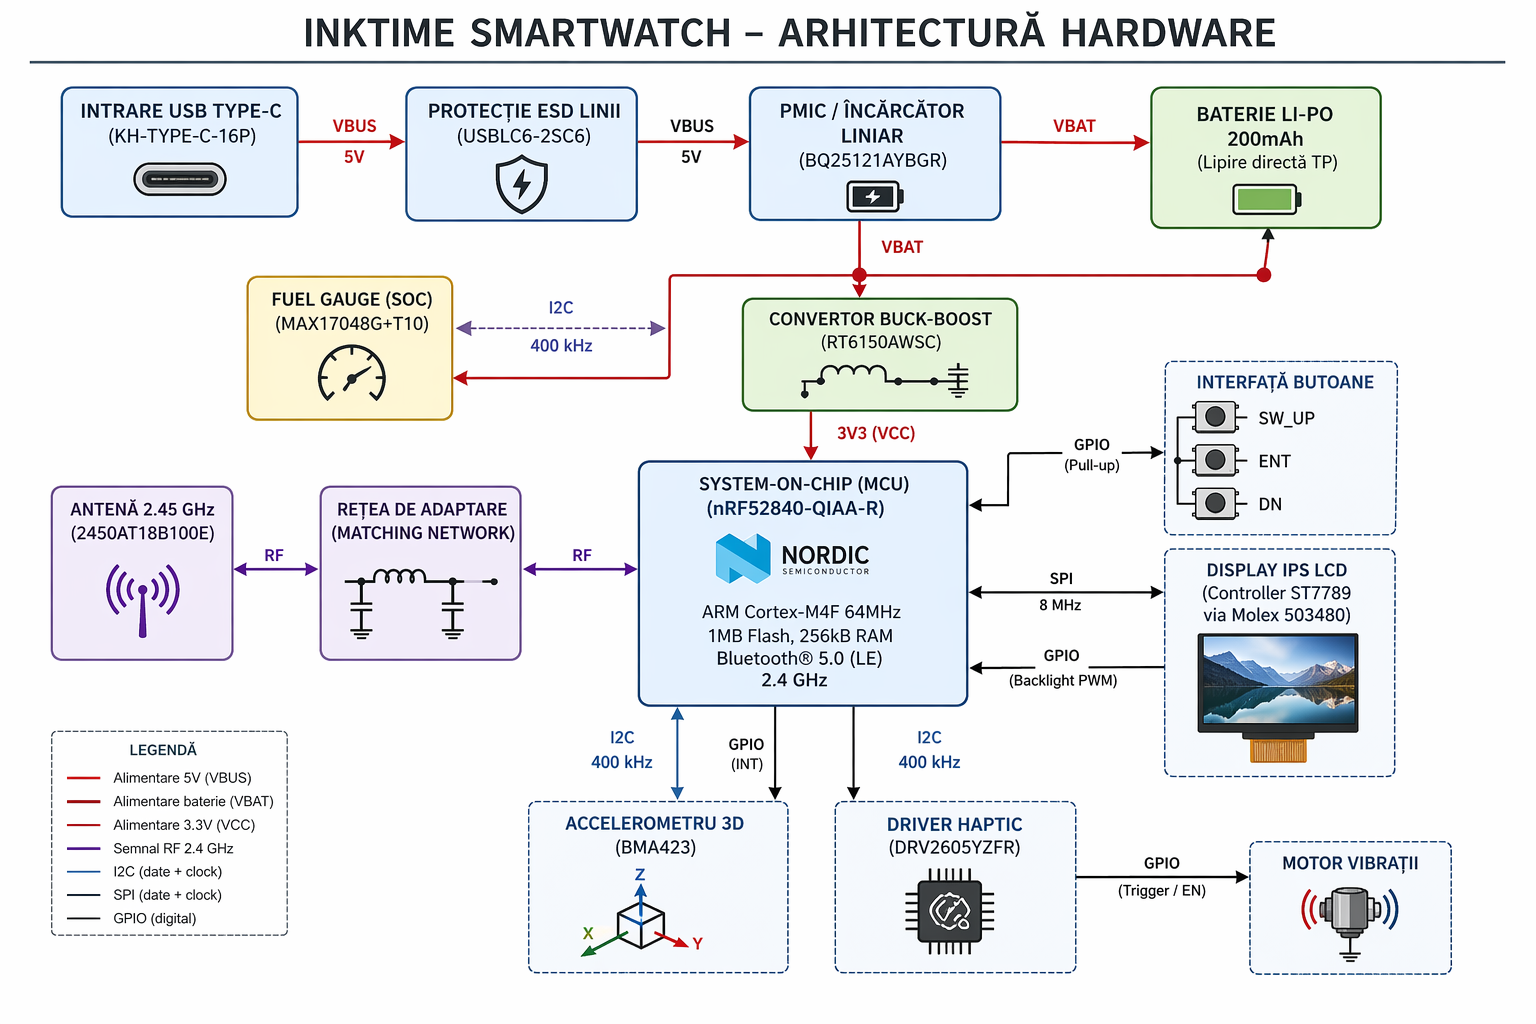
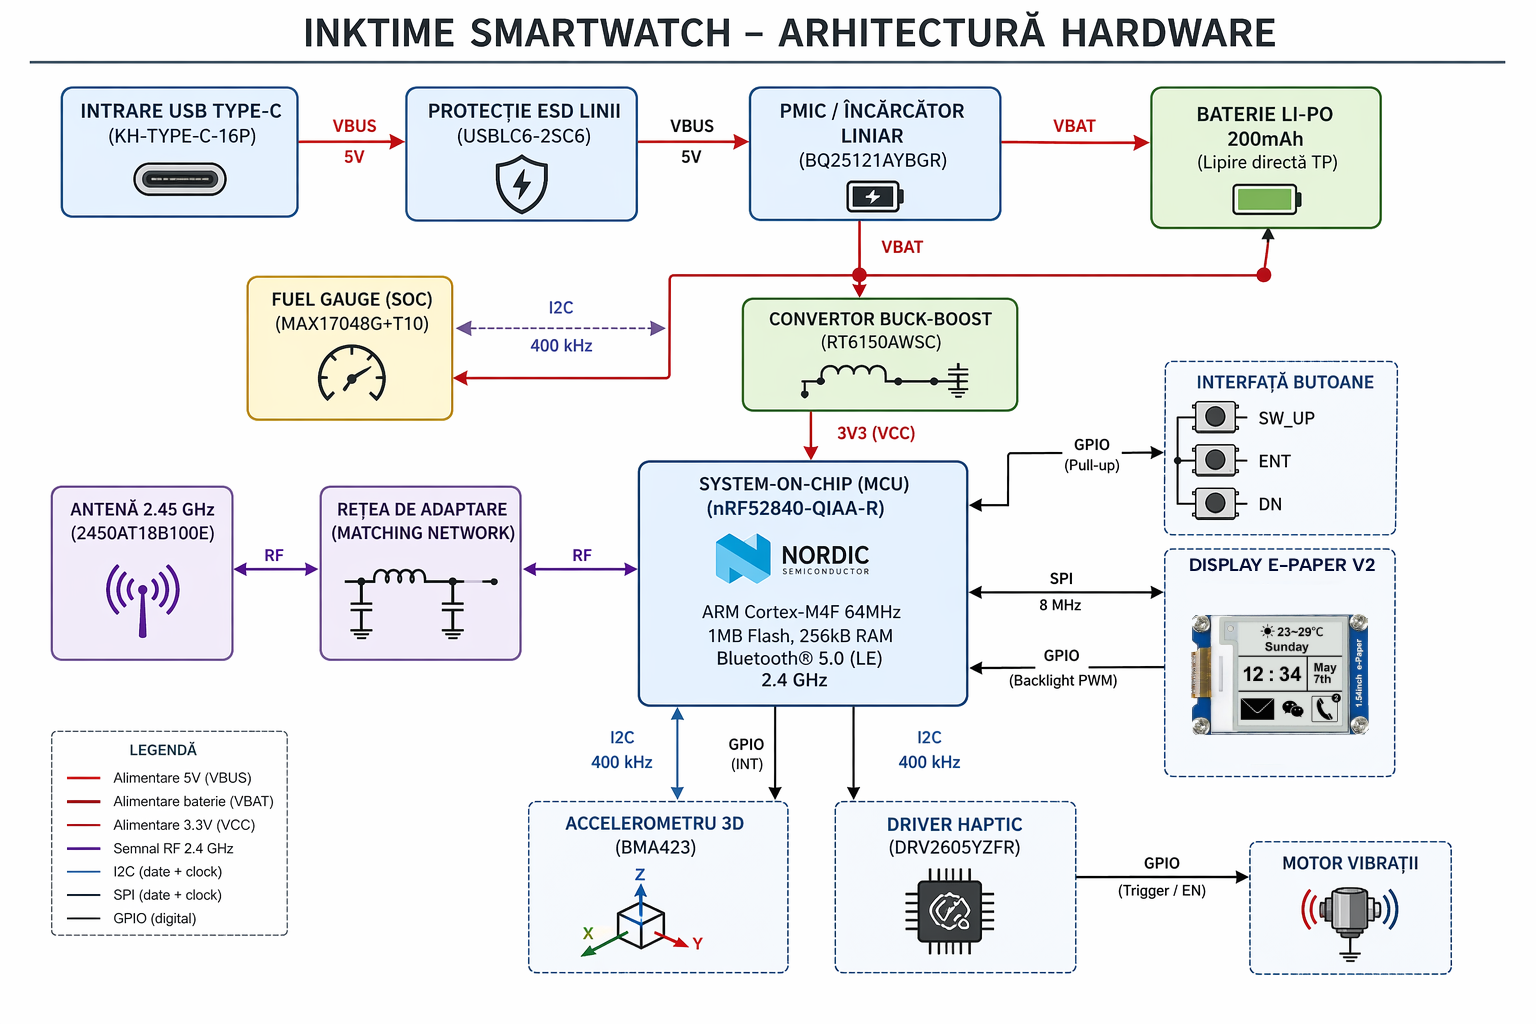
README fix

Changed region(s): [[0.75, 0.5312, 0.9062, 0.75]]

diff --git a/README.md b/README.md
@@ -34,7 +34,6 @@ De asemenea, pachetele fizice (footprints) au fost alese pentru a permite un asa
 | RT6150AWSC        | Convertor DC-DC buck-boost (1.8V–5.5V → 3.3V), curent max 800mA, consum idle 60µA                          | C147971          | [Link JLCPCB](https://www.lcsc.com/product-detail/C147971.html) | [https://www.richtek.com/assets/product_file/RT6150A=RT6150B/DS6150AB-04.pdf](https://www.richtek.com/assets/product_file/RT6150A=RT6150B/DS6150AB-04.pdf)                                                 |
 | KH-TYPE-C-16P     | Conector USB Type-C mamă, 16 pini, SMD, profil redus, 3A                                                   | C709357          | [Link JLCPCB](https://jlcpcb.com/partdetail/KH-TYPE-C-16P/C709357) | N/A                                                                                                                                                                                                        |
 | USBLC6-2SC6       | Protecție ESD (TVS diode array), capacitance 2.5pF pentru linii USB                                        | C7519 / C2827654 | [Link JLCPCB](https://jlcpcb.com/partdetail/STMicroelectronics-USBLC62SC6/C7519) | [https://www.st.com/resource/en/datasheet/usblc6-2.pdf](https://www.st.com/resource/en/datasheet/usblc6-2.pdf)                                                                                             |
-| Molex 503480-2400 | Conector ZIF FPC/FFC 24 pini, pitch 0.5mm, low profile (1.0mm)                                             | C234192          | [Link JLCPCB](https://www.lcsc.com/product-detail/C234192.html) | [https://www.mouser.com/datasheet/2/276/3/5034802400_FFC_FPC_CONNECTORS-2853339.pdf](https://www.mouser.com/datasheet/2/276/3/5034802400_FFC_FPC_CONNECTORS-2853339.pdf)                                   |
 | 2450AT18B100E     | Antenă ceramică RF 2.45 GHz, eficiență ~76%, pachet SMD 1206                                               | C2836414         | [Link JLCPCB](https://jlcpcb.com/partdetail/JohansonTechnology-2450AT18B100/C2836414) | [https://www.johansontechnology.com/docs/1187/2450AT18B100_X8XXogU.pdf](https://www.johansontechnology.com/docs/1187/2450AT18B100_X8XXogU.pdf)                                                             |
 
 ## 4. Descrierea Exhaustivă a Funcționalității Hardware
@@ -63,12 +62,7 @@ Tensiunea de 5V preluată (VBUS) este apoi rutată către circuitul de managemen
 ### Monitorizarea Autonomiei (MAX17048G+T10):
 În mod tradițional, monitorizarea capacității unei baterii implică inserarea unui rezistor tip "shunt" (coulomb counter) pe traseul de retur, ceea ce introduce pierderi resistive constante. InkTime utilizează integratul MAX17048G+T10. Acest fuel-gauge citește exclusiv tensiunea celulei (VCELL) și folosește un model matematic proprietar (ModelGauge™) pentru a estima Starea de Încărcare (State-of-Charge / SOC) cu o toleranță a erorii extrem de redusă, raportând datele către nRF52840 pe magistrala I2C. Prin eliminarea rezistorului de măsurare și o stare internă "Hibernate" în care consumă doar 3 µA, se economisește spațiu vital pe PCB și energie prețioasă.
 
-### 4.3. Subsistemul de Afișare (Display Controller ST7789)
-
-Interfața vizuală constituie cel mai solicitant mediu de comunicare din cadrul dispozitivului. Un ecran tipic LCD IPS de mici dimensiuni este comandat prin intermediul integratului ST7789, un driver larg susținut în mediul sistemelor de operare open source pentru embedded (ex: ecosistemul Zephyr Project). Conectivitatea mecanică între ecran (care va fi asamblat în carcasă superioară) și placa de bază (PCB) de grosime 1.0mm se efectuează cu ajutorul unui cablu flexibil plat (FPC). S-a optat pentru utilizarea conectorului Molex 503480-2400. Acest conector ZIF cu 24 de poziții are un pas ultra-fin (pitch) de 0.5mm și cel mai important, o înălțime de la placa de circuit de numai 1.0mm, respectând constrângerile mecanice riguroase pe axa Z din interiorul carcasei. Dispunând de contacte pe ambele planuri (dual contact), facilitează rutarea fără constrângeri privind orientarea benzii flexibile a display-ului.
-Afișajul comunică cu nRF52840 prin protocol SPI, necesitând lățimi de bandă substanțiale pentru a randa o grafică fluidă la rezoluția tipică (ex: 240x240 pixeli cu 16 biți adâncime de culoare). O viteză de tact SPI de cel puțin 8 MHz este crucială pentru a preveni fragmentarea imaginilor (tearing effect).
-
-### 4.4. Modulul Senzorial (Accelerometrul BMA423)
+### 4.3. Modulul Senzorial (Accelerometrul BMA423)
 Pentru monitorizarea cinematică a purtătorului s-a implementat accelerometrul MEMS digital BMA423, proiectat de Bosch Sensortec. Acest senzor din clasa senzorilor "inteligenți" a fost creat special pentru industria wearable. În locul eșantionării constante și transferării a mii de pachete de date brute (Raw Acceleration Data) pe magistrala I2C către MCU – proces ce ar drena rapid bateria – BMA423 dispune de logică procesuală internă.
 Funcția sa nativă de pedometru (Step Counter) analizează algoritmic tiparele de accelerație și numără pașii independent, menținând un consum total de putere redus până la pragul de 13 µA – 25 µA. Informația este stocată într-un buffer intern (FIFO de 1 kByte) de unde poate fi interogată ocazional de MCU. Suplimentar, funcțiile hardware de recunoaștere a mișcării identifică acțiunile de ridicare a brațului spre ochi ("Tilt-on-Wrist") sau bătăi ("Tap/Double Tap") și emit un impuls asincron pe un pin de întrerupere dedicat (INT), ordonând procesorului nRF52840 să iasă din modul System OFF/ON Sleep.
 
@@ -88,8 +82,53 @@ Mai jos prezentăm un calcul teoretic detaliat al consumului, divizat în cele d
 
 ### 6.1. Consumul în Modul de Repaus (System Sleep State)
 
-Un smartwatch își petrece covârșitor de mult timp (cca. 90-95%) cu ecranul oprit, procesând strict algoritmi secvențiali minori și menținând conectivitatea Bluetooth de bază (Advertising). Această stare, numită System_ON_Sleep pentru arhitectura nRF52840, păstrează memoria RAM alimentată și rulează ceasul de timp real (RTC).ComponentăConsum Tipic de RepausCondiție de Operare / JustificarenRF52840 SoC~1.5 µASystem ON mode, Wake-on-RTC, menținere parțială a RAM-ului activ. CPU în starea WFI (Wait For Interrupt).nRF52840 Radio BLE~3.8 µACurent mediu integrat pentru evenimente recurente scurte (pulsuri) de BLE Advertising (la interval de 10 secunde).BMA423 Senzor Accel.13.0 µAÎn modul "Low-Power", senzorul eșantionează frecvențe reduse (ex. 50 Hz). Logică de detecție hardware (Step Counter & Tilt-on-wrist) continuă să opereze neîncetat.MAX17048 Fuel Gauge3.0 µAAflat în "Hibernate Mode". ADC-ul este activat rar pentru a evalua căderea naturală a tensiunii, restul circuitelor de analiză fiind oprite.DRV2605 Driver Haptic1.75 µAStarea de Standby complet (Shutdown Current). Logică I2C latentă.BQ25121A Încărcător0.7 µA (700 nA)Curentul de scurgere (Leakage/Quiescent) generat când mufa USB este deconectată și circuitul intern monitorizează tensiunea de VBAT.RT6150AWSC DC-DC60.0 µACurentul quiescent nativ al etajului Buck-Boost, necesar pentru susținerea comutației minime pe linia logică de 3.3V (Power Save Mode).Curenți Reziduali (PCB)~10.0 µAPierderi minore provocate de curentul de scurgere al condensatoarelor ceramice (Dielectric Leakage) și rezistențelor de pull-up I2C.TOTAL SLEEP BUDGET~93.75 µA (0.093 mA)Un consum consolidat care confirmă performanța uimitoare a sistemelor electronice moderne miniaturale.
+Un smartwatch își petrece majoritatea timpului (~90–95%) în stare de repaus, cu ecranul oprit. În acest mod:
 
-### 6.2. Consumul în Modul Activ (Peak Load State)
+- sistemul rulează în System ON Sleep (specific nRF52840)
+- RAM-ul rămâne alimentat
+- RTC-ul este activ
+- BLE funcționează în mod Advertising periodic
 
-În scenariul în care utilizatorul privește ecranul, se transferă volume mari de date prin Bluetooth, iar motorul de vibrații este acționat, curentul prezintă vârfuri substanțiale.ComponentăConsum Peak (Vârf)Condiție de Operare / JustificareST7789 Display (LCD + LED) ~20.0 mA - 25.0 mAConsumul major este dominat exponențial de funcția BACKLIGHT. Aprinderea matricei LED la un nivel MID-HIGH va irosi curent imens sub formă luminoasă. Logica de control a panoului IPS contribuie suplimentar.nRF52840 (CPU + Radio)4.8 mA - 15.0 mATransmiterea BLE continuă (0 dBm TX power) absoarbe ~4.8 mA. Trecerea datelor video prin interfața SPI adaugă o sarcină de procesare pe CPU care generează spike-uri adiționale de până la 15 mA.BMA423 Senzor Accel.150 µA (0.15 mA)Operare continuă (Full Data Polling) de înaltă rezoluție (ex. recunoaștere complexă a gesturilor).DRV2605 + Motor LRA/ERM60.0 mA - 80.0 mAConsum tranzitoriu de mare amploare necesar demarării rotorului excentric sau punerii în vibrație a masei rezonante.TOTAL ACTIVE BUDGET~85.0 mA - 120.0 mA(Valorile sunt dependente direct de tipul efectelor Haptic cerute și intensitatea Backlight-ului).Notă privind eficiența: Sursa RT6150 convertor DC-DC suferă o penalizare de eficiență energetică la conversia de tensiune (uzual eficiență ~90%). Prin urmare, extragerea a 100mA la nivelul liniilor de 3.3V va "trage" aproximativ 110mA-115mA de la celula bateriei Li-Po.
+Consum:
+| Componentă     | Consum tipic | Condiție / Justificare                                        |
+| -------------- | ------------ | ------------------------------------------------------------- |
+| nRF52840 SoC   | ~1.5 µA      | System ON, CPU în WFI (Wait For Interrupt), RTC activ         |
+| Radio BLE      | ~3.8 µA      | Advertising periodic (interval ~10s)                          |
+| BMA423         | ~13.0 µA     | Low-power mode, sampling redus (~50 Hz), step detection activ |
+| MAX17048       | ~3.0 µA      | Hibernate mode, măsurători rare                               |
+| DRV2605        | ~1.75 µA     | Standby complet (shutdown)                                    |
+| BQ25121A       | ~0.7 µA      | Leakage cu USB deconectat                                     |
+| RT6150AWSC     | ~60.0 µA     | Quiescent current (DC-DC activ în Power Save Mode)            |
+| PCB (rezidual) | ~10.0 µA     | Leakage pasive + pull-up-uri I2C                              |
+
+**Consum total:** 
+`TOTAL SLEEP ≈ 93.75 µA (0.093 mA)`
+
+### 6.2. Consumul în Mod Activ (Peak Load State)
+
+În modul activ (utilizatorul interacționează cu ceasul):
+- display-ul este aprins
+- BLE transmite date
+- motorul haptic poate fi activ
+
+| Componentă           | Consum Peak  | Condiție / Justificare                     |
+| -------------------- | ------------ | ------------------------------------------ |
+| Display e-ink      | ~5 – 15 mA (peak) | Doar în timpul refresh-ului (~200–500 ms). Consum ≈ 0 între refresh-uri |
+| nRF52840 (CPU + BLE) | ~4.8 – 15 mA | TX BLE + procesare SPI pentru display      |
+| BMA423               | ~0.15 mA     | High-performance mode (gesturi complexe)   |
+| DRV2605 + motor      | ~60 – 80 mA  | Vibrație activă (ERM/LRA startup)          |
+
+**Consum total:** 
+`TOTAL ACTIVE ≈ 10 – 90 mA`
+
+### 6.3 Durată de viață Estimativă
+
+Pe baza bugetelor de consum estimate, autonomia sistemului poate fi aproximată considerând un scenariu realist de utilizare: ~95% din timp în modul sleep (~0.093 mA) și ~5% în modul activ (~50 mA mediu). Curentul mediu rezultat este:
+
+`I_med ≈ 0.95 × 0.093 mA + 0.05 × 50 mA ≈ 2.58 mA`
+
+Pentru o baterie Li-Po de 200 mAh, rezultă o durată de funcționare de aproximativ:
+
+`T ≈ 200 mAh / 5.1 mA ≈ 77 ore (~3-4 zile)`
+
+În practică, ținând cont de pierderile din conversia de tensiune (eficiența ~90% a regulatorului) și variațiile de utilizare (ex.vibrații frecvente), autonomia reală va fi în intervalul 4-5 zile, ceea ce este tipic pentru un smartwatch cu e-ink și funcții BLE active.
